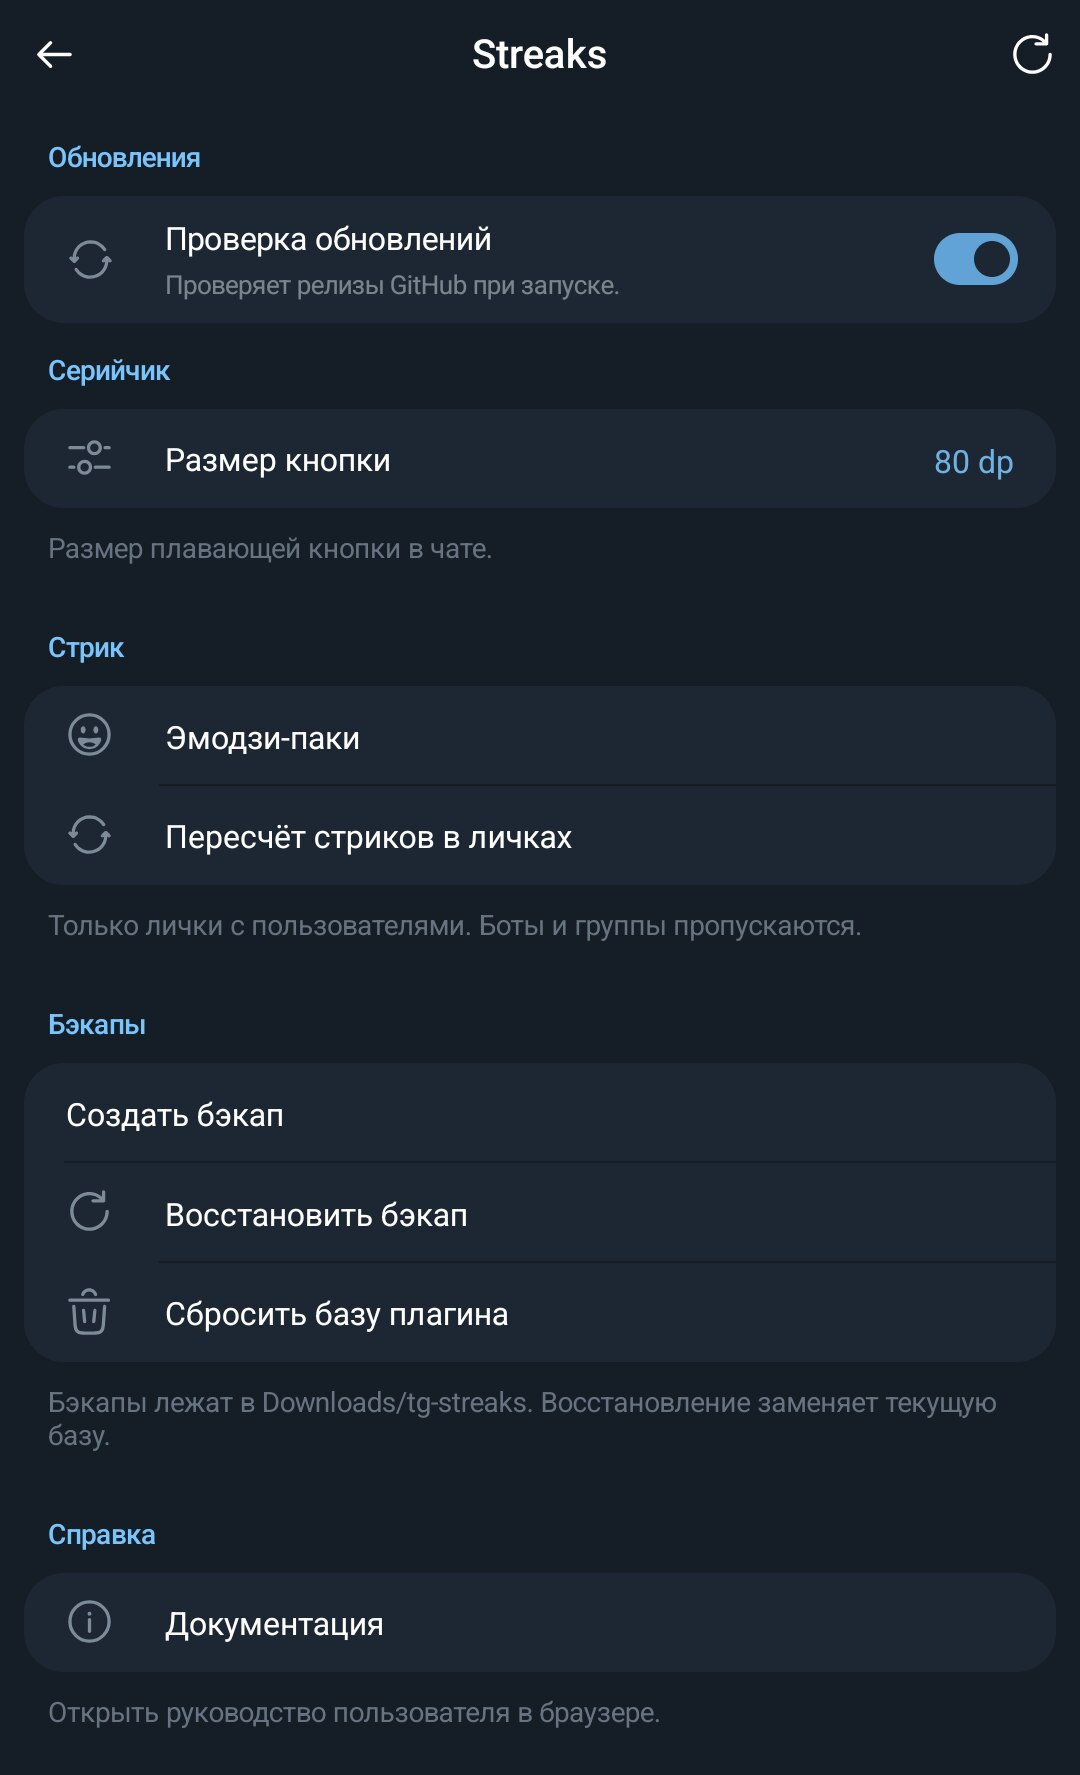
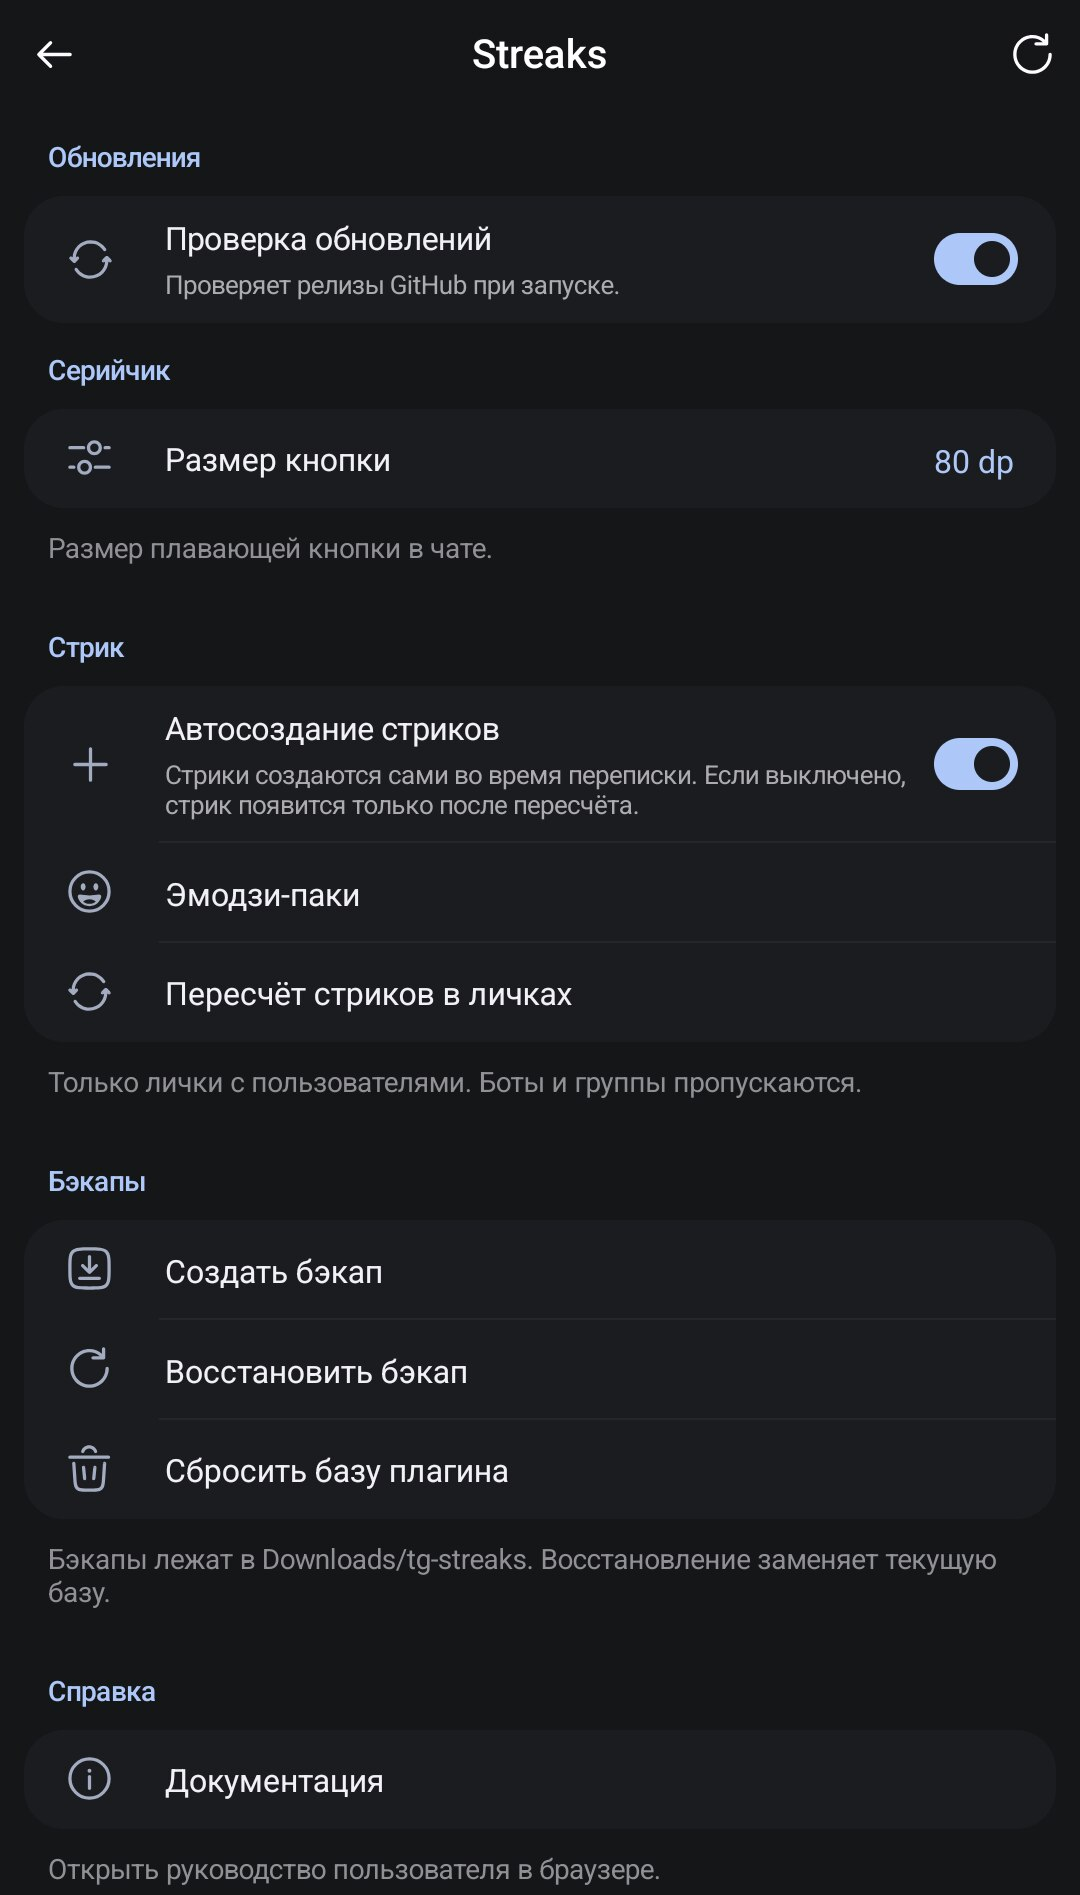
feat: ability to disable streak auto-creation

diff --git a/src/main/kotlin/ru/n08i40k/streaks/controller/StreaksController.kt b/src/main/kotlin/ru/n08i40k/streaks/controller/StreaksController.kt
@@ -91,6 +91,8 @@ class StreaksController(
         LimitReached,
     }
 
+    private val autoCreationEnabled = AtomicBoolean(true)
+
     private val rebuildLock = AtomicBoolean(false)
 
     private val cachedFetcher: ChatHistoryFetcher = CachedChatHistoryFetcher()
@@ -195,6 +197,10 @@ class StreaksController(
         }
 
         Logger.info("Removed streak for invalid peer $accountId:$peerUserId")
+    }
+
+    fun setAutoCreationEnabled(enabled: Boolean) {
+        autoCreationEnabled.set(enabled)
     }
 
     fun isRebuildRunning(): Boolean =
@@ -854,6 +860,9 @@ class StreaksController(
         val streak = dao.findByRelation(ownerUserId, peerUserId) ?: run {
             // forbid streak creation for bots
             if (peerType == PeerType.BOT)
+                return
+
+            if (!autoCreationEnabled.get())
                 return
 
             val timeZone = timeZonesController.get(ownerUserId, peerUserId)

diff --git a/src/main/kotlin/ru/n08i40k/streaks/Plugin.kt b/src/main/kotlin/ru/n08i40k/streaks/Plugin.kt
@@ -199,6 +199,11 @@ class Plugin {
             petUiManager.setFabSizeDp(sizeDp)
         }
 
+        @JvmStatic
+        fun setAutoStreakCreationEnabled(enabled: Boolean) = with(INSTANCE!!) {
+            streaksController.setAutoCreationEnabled(enabled)
+        }
+
         @Synchronized
         private fun ejectSynchronized() {
             Logger.tryOrFatal("Failed to eject plugin") {

diff --git a/tg-streaks.py b/tg-streaks.py
@@ -20,7 +20,7 @@ from base_plugin import BasePlugin, MenuItemData, MenuItemType, MethodHook
 from client_utils import get_last_fragment
 from com.exteragram.messenger.plugins import PluginsController
 from dalvik.system import InMemoryDexClassLoader
-from java.lang import Class, Integer, Long, String
+from java.lang import Boolean, Class, Integer, Long, String
 from java.nio import ByteBuffer
 from java.util import Locale
 from org.telegram.messenger import ApplicationLoader, LocaleController
@@ -76,6 +76,7 @@ UPDATE_CHECK_TIMEOUT_SECONDS = 6
 SETTING_UPDATE_CHECK_ENABLED = "update_check_enabled"
 SETTING_LAST_LOADED_VERSION = "last_loaded_version"
 SETTING_PET_FAB_SIZE_INDEX = "pet_fab_size_index"
+SETTING_AUTO_STREAK_CREATION_ENABLED = "auto_streak_creation_enabled"
 PET_FAB_SIZE_OPTIONS_DP = (64, 80, 96, 112, 128)
 VALID_ISO_LANGUAGES = frozenset(str(code) for code in Locale.getISOLanguages())
 
@@ -140,6 +141,14 @@ I18N_SETTINGS: dict[str, dict[str, str]] = {
     },
     "settings.pet_button.size.title": {"en": "Button size", "ru": "Размер кнопки"},
     "settings.pet_button.title": {"en": "Streak pet", "ru": "Серийчик"},
+    "settings.streak_tools.auto_create.description": {
+        "en": "Streaks start on their own while chatting. When off, a streak appears only after a rebuild.",
+        "ru": "Стрики создаются сами во время переписки. Если выключено, стрик появится только после пересчёта.",
+    },
+    "settings.streak_tools.auto_create.title": {
+        "en": "Automatic streak creation",
+        "ru": "Автосоздание стриков",
+    },
     "settings.streak_tools.emoji_packs.title": {
         "en": "Emoji packs",
         "ru": "Эмодзи-паки",
@@ -891,6 +900,16 @@ class SettingsActions:
             ),
             Divider(text=self.plugin._t("settings.pet_button.size.description")),
             Header(text=self.plugin._t("settings.streak_tools.title")),
+            Switch(
+                key=SETTING_AUTO_STREAK_CREATION_ENABLED,
+                text=self.plugin._t("settings.streak_tools.auto_create.title"),
+                default=self.plugin._is_auto_streak_creation_enabled(),
+                subtext=self.plugin._t("settings.streak_tools.auto_create.description"),
+                icon="msg_add",
+                on_change=lambda value: self.plugin._on_auto_streak_creation_changed(
+                    value
+                ),
+            ),
             Text(
                 text=self.plugin._t("settings.streak_tools.emoji_packs.title"),
                 icon="msg_emoji_smiles",
@@ -1384,6 +1403,38 @@ class TgStreaksPlugin(BasePlugin):
         except Exception:
             return True
 
+    def _is_auto_streak_creation_enabled(self) -> bool:
+        try:
+            return bool(self.get_setting(SETTING_AUTO_STREAK_CREATION_ENABLED, True))
+        except Exception:
+            return True
+
+    def _apply_auto_streak_creation(self, enabled: bool):
+        if self.jvm_plugin.klass is None:
+            self.log("Auto streak creation update skipped: JVM plugin is not loaded")
+            return
+
+        try:
+            self.jvm_plugin.klass.getDeclaredMethod(
+                String("setAutoStreakCreationEnabled"),
+                Boolean.TYPE,
+            ).invoke(
+                None,
+                Boolean(bool(enabled)),
+            )
+        except Exception as e:
+            self.log_exception("Failed to apply auto streak creation setting", e)
+
+    def _on_auto_streak_creation_changed(self, value: bool):
+        enabled = bool(value)
+
+        try:
+            self.set_setting(SETTING_AUTO_STREAK_CREATION_ENABLED, enabled)
+        except Exception as e:
+            self.log_exception("Failed to persist auto streak creation setting", e)
+
+        self._apply_auto_streak_creation(enabled)
+
     def _get_pet_fab_size_index(self) -> int:
         default_index = 1
 
@@ -1605,6 +1656,7 @@ class TgStreaksPlugin(BasePlugin):
 
             self.log("JVM plugin injected successfully")
             self._apply_pet_fab_size_dp(self._get_pet_fab_size_dp())
+            self._apply_auto_streak_creation(self._is_auto_streak_creation_enabled())
         except Exception as e:
             self._handle_load_failure("inject", e)
             self.on_plugin_eject()
